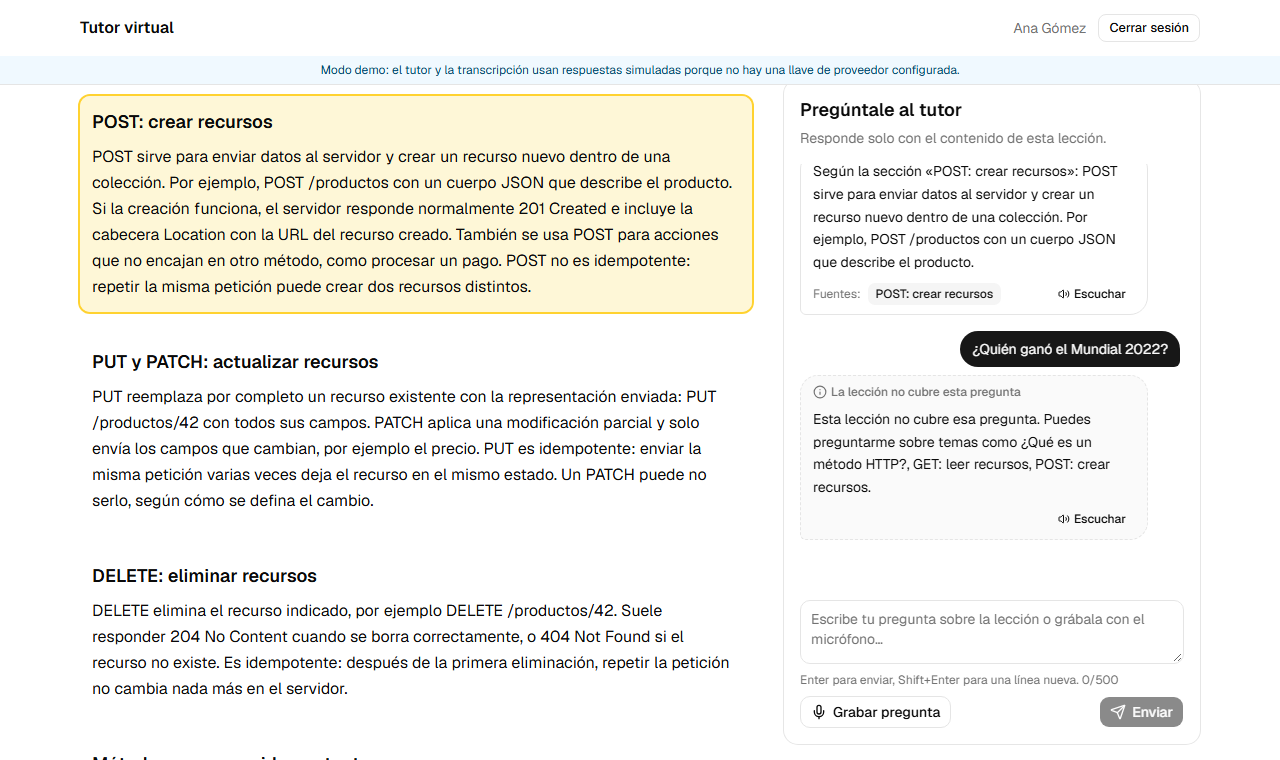
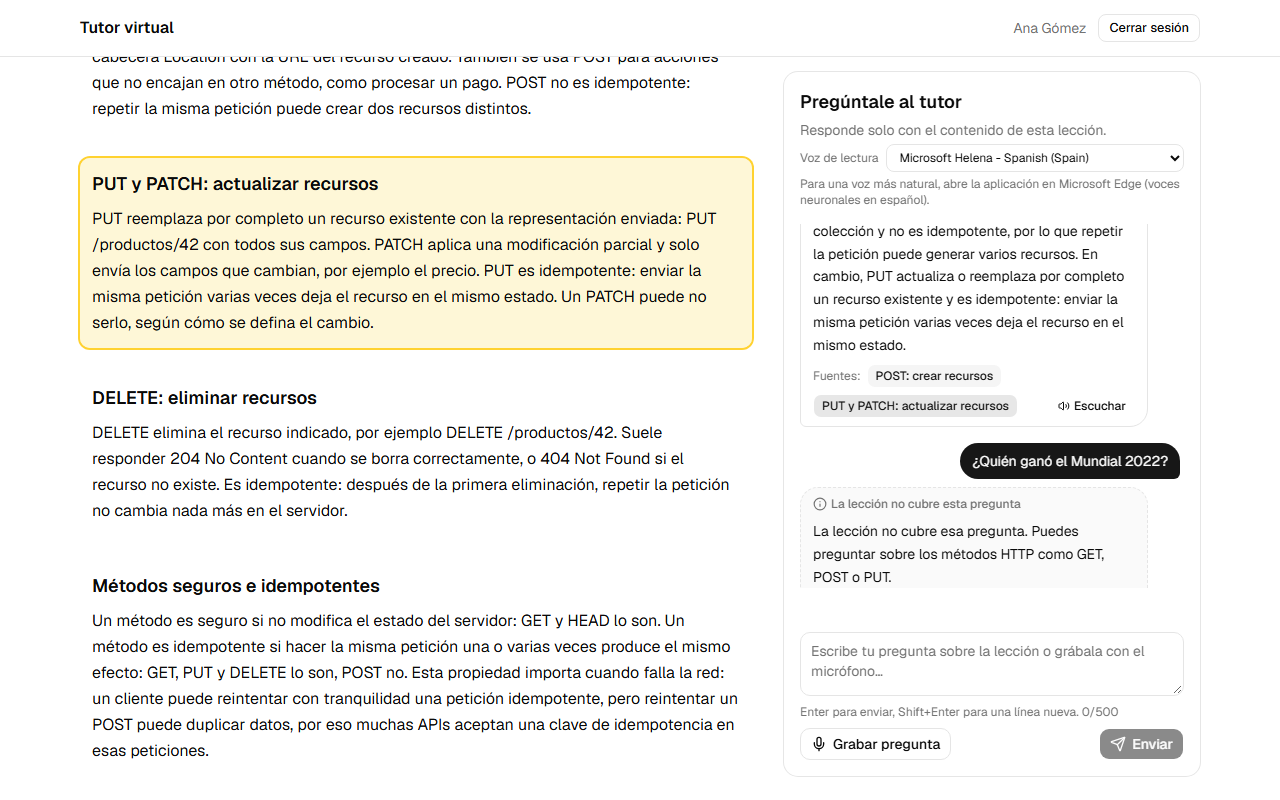
docs: align the README and decisions with the final behavior
Real test counts, exact verification steps (microphone, offline,
provider outage, SQL injection in the password field), Playwright
prerequisites, a working secret check, demo account lockout, why a free
Groq key is needed for a real evaluation, the history-format lesson and a
screenshot taken with the real provider.

diff --git a/README.md b/README.md
@@ -24,7 +24,7 @@ Prueba de concepto: un alumno abre una lección, pregunta por texto o por voz y 
 Requisitos: Docker Desktop.
 
 ```bash
-cp .env.example .env        # opcional: pega tu llave de Groq en Tutoring__ApiKey
+cp .env.example .env        # pega tu llave de Groq en Tutoring__ApiKey (sin ella arranca en modo demo)
 docker compose up --build
 ```
 
@@ -52,6 +52,8 @@ dotnet user-secrets set "Tutoring:ApiKey" "gsk_..." --project src/LmsTutor.Serve
 
 ## Modo demo y proveedor real
 
+> Para evaluar el tutor con un modelo de lenguaje y la transcripción reales hace falta una llave **gratuita** de Groq; se crea en un par de minutos y no pide tarjeta. Sin llave la aplicación funciona de punta a punta con proveedores simulados, útil para revisar el flujo, la interfaz y los controles de acceso.
+
 | | Sin llave (modo demo) | Con llave de Groq (gratuita, sin tarjeta) |
 |---|---|---|
 | Tutor | Modelo de demostración que responde citando la sección con más coincidencias, o informa que la lección no cubre la pregunta | `openai/gpt-oss-120b` con salida estructurada; `openai/gpt-oss-20b` como respaldo si el primero está limitado |
@@ -78,7 +80,7 @@ Son datos de evaluación locales, no secretos. La pantalla de inicio de sesión 
 | 3 | Tutor contextual | En *Métodos HTTP* pregunta «¿Para qué sirve POST?» y luego «¿Cómo despliego en Kubernetes?» | Respuesta con la fuente *POST: crear recursos*; después, *La lección no cubre esta pregunta* | `TutorTests`, e2e |
 | 4 | Voz | Pulsa *Grabar pregunta*, habla, *Detener grabación*; revisa el texto y *Enviar*; pulsa *Escuchar* | La transcripción aparece editable; la respuesta se lee en voz alta | `TutorPanel.test.tsx`, e2e |
 | 5 | Historial | Recarga la página o cierra sesión y vuelve a entrar | La conversación sigue ahí | `TutorTests`, e2e |
-| 6 | Recuperación | Bloquea el micrófono del sitio; activa *Offline* en DevTools; o ejecuta con `Tutoring__FakeFailure=Unavailable` | Mensaje claro, la pregunta se conserva y aparece *Reintentar* | `TutorPanel.test.tsx`, `TutorTests`, e2e |
+| 6 | Recuperación | a) Bloquea el micrófono del sitio y pulsa *Grabar pregunta*. b) Activa *Offline* en DevTools. c) En modo demo, agrega `Tutoring__FakeFailure=Unavailable` al `.env` y reinicia | a) Explica cómo activarlo y deja seguir por texto. b) Aviso *Sin conexión*, la pregunta se conserva y se envía al volver la red. c) *El tutor no está disponible*, la pregunta se conserva y aparece *Reintentar* | `TutorPanel.test.tsx`, `TutorTests`, e2e |
 
 Controles de seguridad:
 
@@ -86,18 +88,22 @@ Controles de seguridad:
 |---|---|---|
 | IDOR / acceso | Con la sesión de Bruno: `GET /api/lessons/{id}/messages` de una lección de Ana | `403`; ningún endpoint acepta un id de usuario |
 | XSS | Pregunta `<img src=x onerror=alert(1)>` | Se muestra como texto, no se ejecuta |
-| Inyección SQL | Inicia sesión con `' OR 1=1--` | `401`: EF Core solo usa consultas parametrizadas |
+| Inyección SQL | Inicia sesión con un correo válido y la contraseña `' OR 1=1--` | `401`: EF Core solo usa consultas parametrizadas (en el campo de correo responde `400` por validación) |
 | CSRF | `POST` a la API sin la cabecera `X-CSRF` | `403` |
 | Abuso | Más de 10 preguntas en un minuto | `429` con `Retry-After` |
-| Secretos | `git log -p \| grep gsk_` | Sin resultados; el CI ejecuta gitleaks sobre todo el historial |
+| Secretos | `git log -p \| grep -E "gsk_[A-Za-z0-9]{20,}"` | Sin resultados; el CI ejecuta gitleaks sobre todo el historial |
 
 ## Pruebas y CI
 
 ```bash
-dotnet test --solution LmsTutor.slnx        # 111 pruebas: unitarias e integración (API real + SQLite)
+dotnet test --solution LmsTutor.slnx        # 115 pruebas: unitarias e integración (API real + SQLite)
 cd web
-npm test                                     # 36 pruebas de componentes y lógica (Vitest)
-npm run build && npm run test:e2e            # 5 pruebas end-to-end en Chromium con micrófono simulado
+npm test                                     # 47 pruebas de componentes y lógica (Vitest)
+
+# End-to-end: 5 pruebas en Chromium con micrófono simulado contra el build de producción.
+# Requieren el .NET SDK (arrancan el backend en el puerto 5090) y descargar Chromium una vez.
+npx playwright install chromium
+npm run build && npm run test:e2e
 ```
 
 GitHub Actions ejecuta en cada PR: formato, compilación con warnings como errores, pruebas, auditoría de dependencias, lint y tipos del frontend, pruebas end-to-end, construcción y prueba de humo de la imagen Docker, y escaneo de secretos.
@@ -150,6 +156,7 @@ Las decisiones, alternativas y límites están en **[docs/DECISIONS.md](docs/DEC
 - **El micrófono no funciona:** usa `http://localhost`, no una IP de red; revisa el permiso en el icono junto a la dirección del sitio.
 - **La voz suena robótica:** abre la aplicación en **Microsoft Edge**, que trae voces neuronales en español (por ejemplo *Salome* o *Gonzalo* de Colombia, *Dalia* o *Jorge* de México). La aplicación elige la más natural disponible y puedes cambiarla en *Voz de lectura*. Chrome ofrece las voces *Google español*.
 - **"Escuchar" está desactivado:** el navegador no tiene ninguna voz en español. En Linux puede faltar.
-- **`429` del tutor con Groq:** el plan gratuito permite unas pocas preguntas por minuto para toda la cuenta. Espera los segundos indicados o usa el modo demo.
+- **`429` del tutor con Groq:** el plan gratuito permite unas pocas preguntas por minuto para toda la cuenta (cada pregunta usa unos 1.300 tokens). Espera los segundos indicados o usa el modo demo.
+- **Ana o Bruno no pueden entrar:** tras 5 contraseñas incorrectas la cuenta se bloquea 2 minutos (y responde igual que una contraseña incorrecta). Espera o reinicia la aplicación, que desbloquea las cuentas de prueba al arrancar.
 - **Puerto ocupado:** cambia `APP_PORT` en `.env`.
 - **Empezar de cero:** `docker compose down -v` borra la base de datos y las sesiones.

diff --git a/docs/DECISIONS.md b/docs/DECISIONS.md
@@ -30,7 +30,7 @@ Registro breve de las decisiones de diseño de la prueba de concepto: contexto, 
 
 ## 4. Sesión con cookie en el mismo origen
 
-**Decisión.** ASP.NET Core Identity con endpoints propios de `login`, `logout` y `me`. La cookie de sesión es `HttpOnly`, `SameSite=Strict` y `Secure` detrás de HTTPS. Hay bloqueo de cuenta tras intentos fallidos y el mismo mensaje para usuario inexistente, contraseña incorrecta o cuenta bloqueada. La SPA se sirve desde el mismo origen que la API.
+**Decisión.** ASP.NET Core Identity con endpoints propios de `login`, `logout` y `me`. La cookie de sesión es `HttpOnly` y `SameSite=Strict`; `Secure` es configurable (`Auth:CookieSecurePolicy`) para que la demo funcione en `http://localhost` y se exija en producción. Hay bloqueo de cuenta tras intentos fallidos y el mismo mensaje, y un tiempo de respuesta similar, para usuario inexistente, contraseña incorrecta o cuenta bloqueada. La SPA se sirve desde el mismo origen que la API.
 
 **Alternativas.** JWT en `localStorage` (expuesto ante XSS) o `MapIdentityApi`, que agrega registro abierto y endpoints que la POC no necesita.
 
@@ -49,6 +49,8 @@ Registro breve de las decisiones de diseño de la prueba de concepto: contexto, 
 **Alternativas.** RAG con embeddings y base vectorial. Con dos lecciones cortas, recuperar fragmentos solo añade puntos de fallo; además, darle al modelo la lección entera da respuestas más fieles y fáciles de probar.
 
 **Consecuencias.** El "no tengo información suficiente" es un campo, no una frase que haya que adivinar. Cuando el contenido crezca (un curso entero, transcripciones de video, PDF), `LessonSection` ya es la unidad que se indexaría (SQLite FTS5 o pgvector) sin cambiar el contrato de salida ni la interfaz. La parte fija del prompt es idéntica entre preguntas para aprovechar la caché de prefijos del proveedor.
+
+Una lección aprendida al probar con el modelo real: si las respuestas anteriores del historial se reenvían como texto plano, el modelo las imita y rompe la salida estructurada (3 de cada 4 preguntas de seguimiento fallaban con `json_validate_failed`). Se reenvían en el mismo JSON del esquema, con sus citas, y con eso el fallo desapareció. Las pruebas automáticas usan un modelo simulado, por eso este tipo de problema solo aparece con una prueba de humo contra el proveedor real.
 
 ## 7. Groq como proveedor, detrás de puertos propios
 
@@ -75,7 +77,7 @@ La calidad final depende de las voces del navegador. Si no hay voz en español, 
 
 ## 9. Errores y resiliencia pensados para la interfaz
 
-**Decisión.** Todos los errores son Problem Details (RFC 9457) con un `code` estable y un indicador `retryable`. Los fallos del proveedor se traducen así: límite de cuota → `429` con `Retry-After`; caída → `503`; demora → `504`. Las llamadas salientes pasan por el pipeline de resiliencia de .NET con un solo reintento ante fallos transitorios, nunca ante `429`, porque la cuota gratuita es compartida y reintentar la agota. Hay límite de peticiones por alumno (respuesta `429`, no el `503` por defecto). Cada pregunta lleva un id generado en el cliente que se reutiliza en los reintentos, así que repetir nunca duplica un mensaje.
+**Decisión.** Los errores son Problem Details (RFC 9457). Los de negocio y proveedores llevan un `code` estable, y los de proveedores y límites de uso indican además si conviene reintentar (`retryable`); una llave inválida o un modelo inexistente no se ofrecen como reintentables. Los fallos del proveedor se traducen así: límite de cuota → `429` con `Retry-After`; caída → `503`; demora → `504`. Las llamadas salientes pasan por el pipeline de resiliencia de .NET con un solo reintento ante fallos transitorios, nunca ante `429`, porque la cuota gratuita es compartida y reintentar la agota. Hay límite de peticiones por alumno (respuesta `429`, no el `503` por defecto). Cada pregunta lleva un id generado en el cliente que se reutiliza al reenviar el mismo texto, así que repetir nunca duplica un mensaje; si el alumno edita la pregunta, se envía como una pregunta nueva.
 
 **Consecuencias.** La SPA modela la interacción como una máquina de estados con el borrador fuera de cada estado. Ningún fallo (micrófono, red, servicio) borra lo que el alumno escribió o dictó, y siempre hay un mensaje claro con su acción.
 
